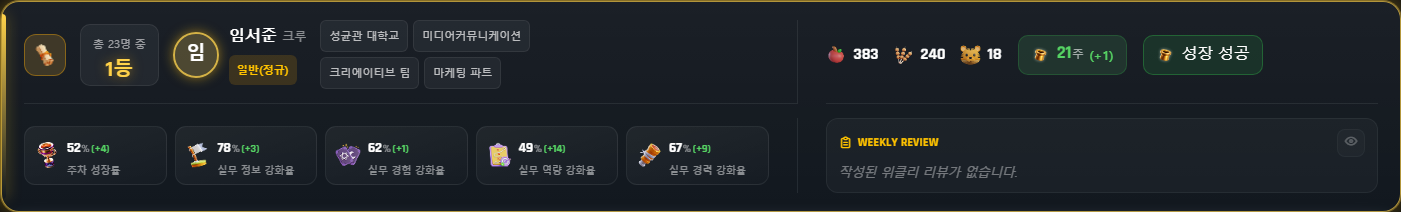
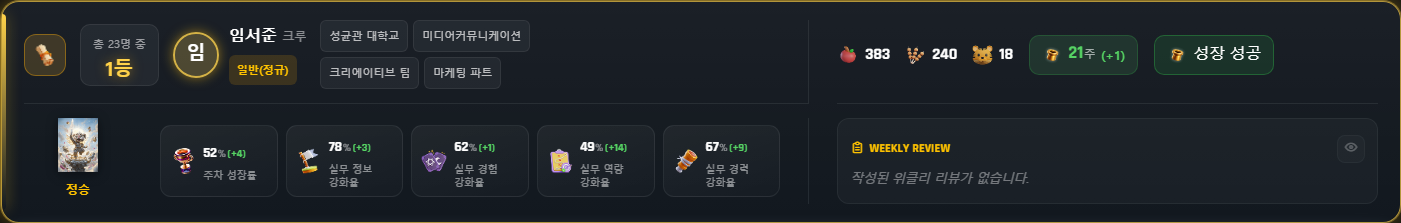
feat(weekly-detail): 크루 카드 하단에 품계 영역 복원(3열 배치)
하단 행을 [품계 | 강화율 5 KPI | Weekly Review] 3열로 재구성.
- 상세 버튼 아래 좁은 컬럼에 품계 이미지 + 품계명 세로 배치(wd-crew__grade)
- 품계 이미지 = org별 cluster-3 재사용(oranke=기본 / encre=/ec / phalanx=/px, 정 N 품.png)
- 강화율 KPI는 가운데 컬럼으로 우측 이동, Weekly Review 위치·폭 불변
- grid: 상단 2열 / 하단 3열, col2/col3 경계(58.3%)를 유지해 stats·review 위치 보존
- 반응형: Tablet/Mobile 스택 순서 info→stats→grade→rates→review, 품계는 가로형
- gradeImageSrc/resolveGradeImageBase 헬퍼 재도입(품계명=c.grade)
- verify-crew-showcase: 품계 img/명 + org 매핑 + 하단 3열 좌→우 geometry 검증(PASS)

diff --git a/app/(host)/assets/scss/components/_weekly-detail.scss b/app/(host)/assets/scss/components/_weekly-detail.scss
@@ -1927,14 +1927,15 @@
     --crew-accent: rgba(255, 255, 255, 0.14);
     --crew-glow: rgba(255, 255, 255, 0.08);
     position: relative;
-    // 좌우 대시보드 — 2×2 그리드.
-    //  ┌ info  ┬ stats  ┐   상단: 등수·프로필·학교/전공/팀/파트 | 포인트·누적성공·결과
-    //  └ rates ┴ review ┘   하단: 강화율 5 KPI               | Weekly Review
+    // 좌우 대시보드 — 상단 2열 / 하단 3열 그리드.
+    //  ┌ info ───────┬ stats  ┐  상단: 등수·프로필·학교/전공/팀/파트   | 포인트·누적성공·결과
+    //  └ grade┬ rates┴ review ┘  하단: 품계이미지+품계명 | 강화율 5 KPI | Weekly Review
+    //  col2/col3 경계(=1.4fr/2.4fr=58.3%)는 종전 좌/우 분할선 위치와 동일 → stats·review 불변.
     display: grid;
-    grid-template-columns: minmax(0, 1.4fr) minmax(0, 1fr);
+    grid-template-columns: minmax(80px, 0.2fr) minmax(0, 1.2fr) minmax(0, 1fr);
     grid-template-areas:
-      "info  stats"
-      "rates review";
+      "info  info  stats"
+      "grade rates review";
     gap: 14px 28px;
     align-items: stretch;
     padding: 18px 22px;
@@ -2159,7 +2160,32 @@
     &__delta--down { color: var(--wd-c-red-soft); }
     &__delta--flat { color: rgba(255, 255, 255, 0.45); }
 
-    /* ── 하단 좌측 — 강화율 5 KPI ── */
+    /* ── 하단 좌측(좁은 컬럼) — 상세 버튼 아래 품계 이미지 + 품계명 ── */
+    &__grade {
+      grid-area: grade;
+      display: flex;
+      flex-direction: column;
+      align-items: center;
+      justify-content: center;
+      gap: 6px;
+      min-width: 0;
+      text-align: center;
+      &-img {
+        width: 54px;
+        height: 54px;
+        object-fit: contain;
+        filter: drop-shadow(0 2px 6px rgba(0, 0, 0, 0.45));
+      }
+      &-label {
+        font-family: var(--wd-font-heading);
+        font-size: 12px;
+        font-weight: 700;
+        color: var(--wd-accent-soft);
+        white-space: nowrap;
+      }
+    }
+
+    /* ── 하단 가운데 — 강화율 5 KPI ── */
     &__rates {
       grid-area: rates;
       display: grid;
@@ -2690,13 +2716,14 @@
   .weekly-detail-page .wd-tb__grid,
   .weekly-detail-page .wd-mvp__grid { grid-template-columns: repeat(2, minmax(0, 1fr)); }
 
-  /* 크루 카드 — Tablet: 2×2 좌우 대시보드 → 1열 세로 스택(info→stats→rates→review).
+  /* 크루 카드 — Tablet: 좌우 대시보드 → 1열 세로 스택(info→stats→grade→rates→review).
      열 경계선(우측)은 제거하고 행 경계선(하단)만 남겨 섹션을 구분한다. */
   .weekly-detail-page .wd-crew {
     grid-template-columns: 1fr;
     grid-template-areas:
       "info"
       "stats"
+      "grade"
       "rates"
       "review";
     gap: 14px;
@@ -2707,6 +2734,12 @@
     }
     &__stats {
       padding: 0 0 14px;
+    }
+    // 품계 — 스택 모드에선 이미지+품계명을 가로로 붙여 한 줄로.
+    &__grade {
+      flex-direction: row;
+      justify-content: flex-start;
+      gap: 10px;
     }
     &__rates {
       grid-template-columns: repeat(auto-fit, minmax(128px, 1fr));

diff --git a/components/weekly-ranking/WeeklyDetailContent.tsx b/components/weekly-ranking/WeeklyDetailContent.tsx
@@ -44,6 +44,16 @@ function resolvePointIcons(org: string | null): { a: string; b: string; c: strin
   return k ? ORG_POINT_ICONS[k] : DEFAULT_POINT_ICONS;
 }
 
+// org → cluster-3 품계 이미지 base(정 N 품.png). encre=ec · phalanx=px · oranke/기타=기본.
+function resolveGradeImageBase(org: string | null): string {
+  const k = normalizeOrgKey(org);
+  if (k === "encre") return "/images/0/cluster 3/image/ec";
+  if (k === "phalanx") return "/images/0/cluster 3/image/px";
+  return "/images/0/cluster 3/image";
+}
+const gradeImageSrc = (org: string | null, level: number) =>
+  `${resolveGradeImageBase(org)}/정 ${level} 품.png`;
+
 // ── [5] Weekly Rank Showcase — 크루 리스트 상수/헬퍼 ──
 // 페이지당 크루 수(10개 초과 시 페이지네이션).
 const WRS_PER_PAGE = 10;
@@ -1134,7 +1144,13 @@ export default function WeeklyDetailContent({ weekId, org }: WeeklyDetailContent
                     </div>
                   </div>
 
-                  {/* 하단 좌측 — 강화율 5지표 */}
+                  {/* 하단 좌측(좁은 컬럼) — 상세 버튼 아래 품계 이미지 + 품계명 */}
+                  <div className="wd-crew__grade" title={c.grade}>
+                    <img className="wd-crew__grade-img" src={gradeImageSrc(org, c.gradeLevel)} alt="" aria-hidden="true" />
+                    <span className="wd-crew__grade-label">{c.grade}</span>
+                  </div>
+
+                  {/* 하단 가운데 — 강화율 5지표 */}
                   <div className="wd-crew__rates">
                     {rates.map((r) => (
                       <div key={r.key} className="wd-crew__rate">
